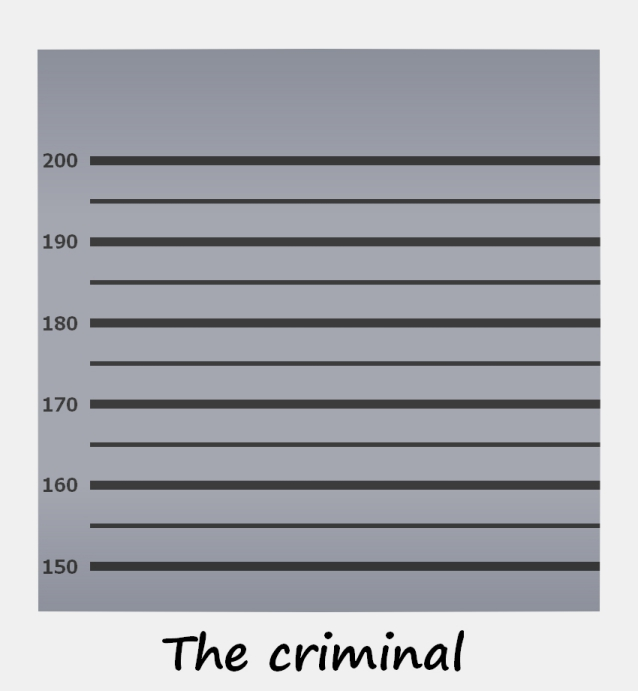
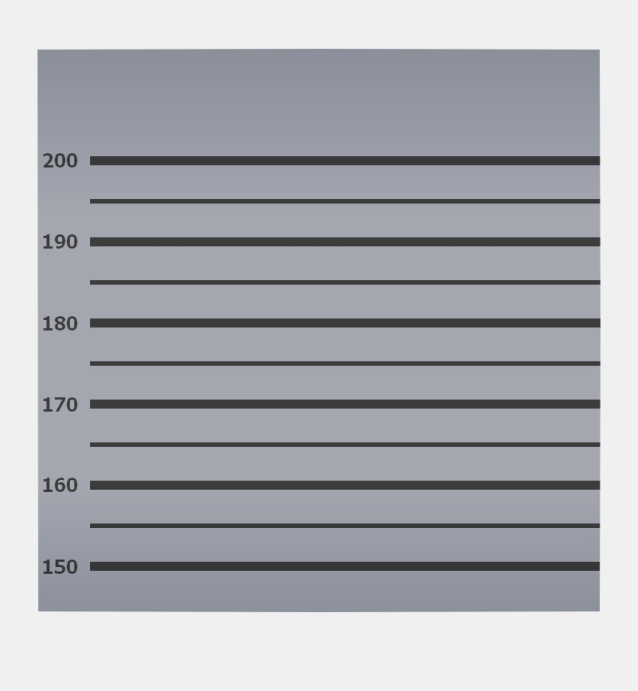
Some visual upgrades

Changed region(s): [[0.4169, 0.9117, 0.7445, 0.9725], [0.2382, 0.9117, 0.3871, 0.9725]]

diff --git a/core/src/fi/tamk/rikollisentunnistus/CriminalScreen.java b/core/src/fi/tamk/rikollisentunnistus/CriminalScreen.java
@@ -27,6 +27,8 @@ public class CriminalScreen implements Screen {
     private Stage stage;
     private Face criminal;
     private Image criminalFrame;
+    private Image criminalText;
+    private Image backgroundImage;
 
     private Label waitingTimeText;
 
@@ -59,6 +61,9 @@ public class CriminalScreen implements Screen {
 
         stage = new Stage(new StretchViewport(camera.viewportWidth,camera.viewportHeight));
 
+        backgroundImage = new Image(new Texture("criminalscreenbackground.jpg"));
+        backgroundImage.setBounds(0,0,width,height);
+
         /**
          * Sets the criminal and gives it an action to move to the screen.
          */
@@ -80,11 +85,18 @@ public class CriminalScreen implements Screen {
         frameMoveUp.setPosition((width - criminalFrame.getWidth())/2, height/6 - 79);
         frameMoveUp.setDuration(0.6f);
         criminalFrame.addAction(frameMoveUp);
-        settings = Settings.getInstance();
+
+        criminalText = new Image(new Texture("textimages/en_criminalscreentext.png"));
+        criminalText.setPosition((width - criminalText.getWidth())/2, -height - 79);
+        MoveToAction textMoveUp = new MoveToAction();
+        textMoveUp.setPosition((width - criminalText.getWidth())/2, height/6 - 79);
+        textMoveUp.setDuration(0.6f);
+        criminalText.addAction(textMoveUp);
 
         /**
          * Gets timeShown and timeWaiting from prefs-file.
          */
+        settings = Settings.getInstance();
         timeShown = settings.getInteger("faceShown", GameData.DEFAULT_FACE_SHOWN);
         timeWaiting = settings.getInteger("waitingTime", GameData.DEFAULT_WAITING_TIME);
 
@@ -99,8 +111,10 @@ public class CriminalScreen implements Screen {
         /**
          * Adds actors to the stage.
          */
+        stage.addActor(backgroundImage);
         stage.addActor(waitingTimeText);
         stage.addActor(criminalFrame);
+        stage.addActor(criminalText);
         stage.addActor(criminal);
     }
 
@@ -201,6 +215,11 @@ public class CriminalScreen implements Screen {
             moveFrame.setPosition((width - criminalFrame.getWidth())/2, -height - 80);
             moveFrame.setDuration(0.6f);
             criminalFrame.addAction(moveFrame);
+
+            MoveToAction moveText = new MoveToAction();
+            moveText.setPosition((width - criminalText.getWidth())/2, -height - 80);
+            moveText.setDuration(0.6f);
+            criminalText.addAction(moveText);
 
             if (timer(timeWaiting)) {
                 SoundManager.stopTimerSound();

diff --git a/core/src/fi/tamk/rikollisentunnistus/MainScreen.java b/core/src/fi/tamk/rikollisentunnistus/MainScreen.java
@@ -31,6 +31,7 @@ public class MainScreen implements Screen {
     Stage stage;
     Image background;
     Image tutorial;
+    Image title;
 
     GameData gameData;
 
@@ -54,6 +55,10 @@ public class MainScreen implements Screen {
         tutorial.setSize(width,height);
         tutorial.setPosition(0,0);
         tutorial.setVisible(false);
+
+        title = new Image(new Texture("textimages/en_title.png"));
+        title.setPosition(width*5/8f - title.getWidth()/2, height*5/6f);
+        title.setVisible(true);
 
         mySkin = new Skin(Gdx.files.internal("glassy-ui.json"));
 
@@ -163,6 +168,7 @@ public class MainScreen implements Screen {
         });
 
         stage.addActor(background);
+        stage.addActor(title);
         stage.addActor(play);
         stage.addActor(freePlay);
         stage.addActor(settings);
